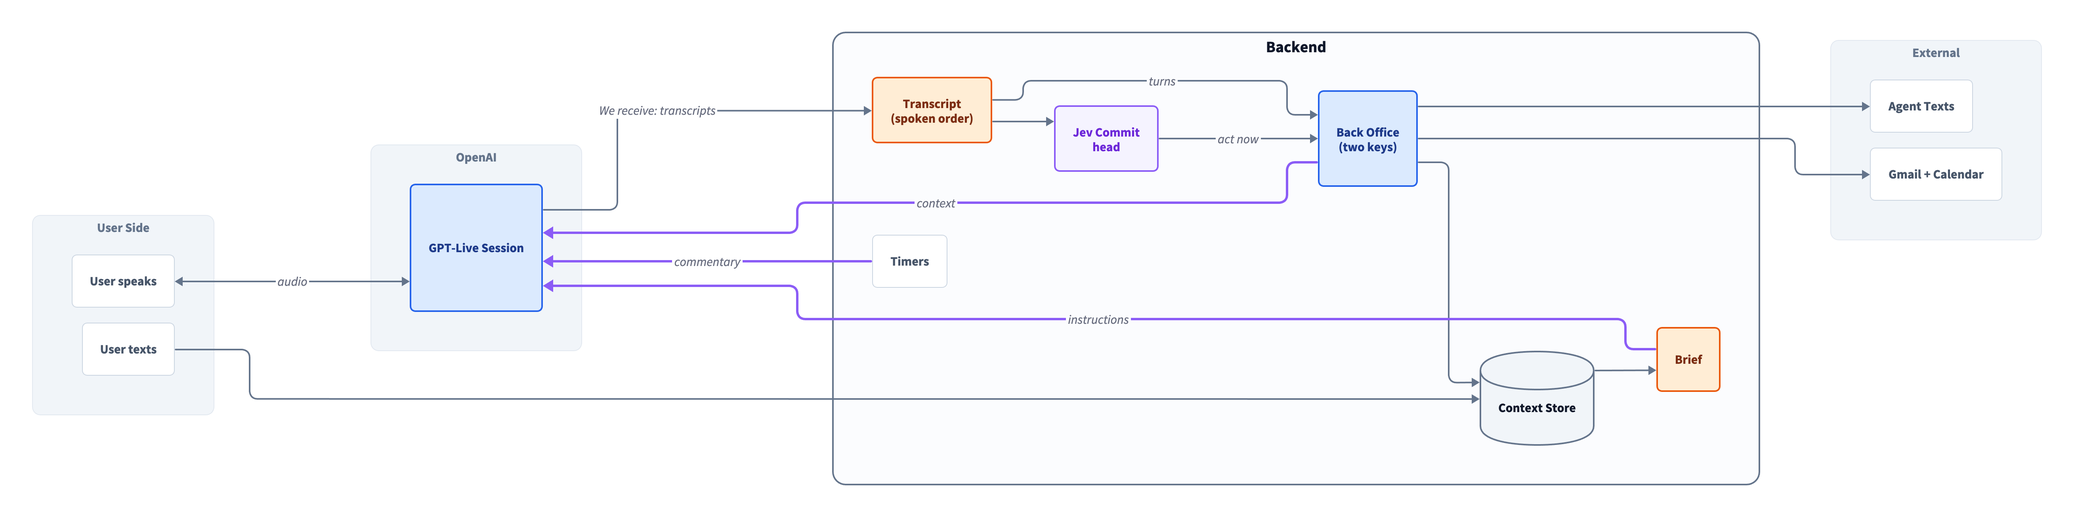
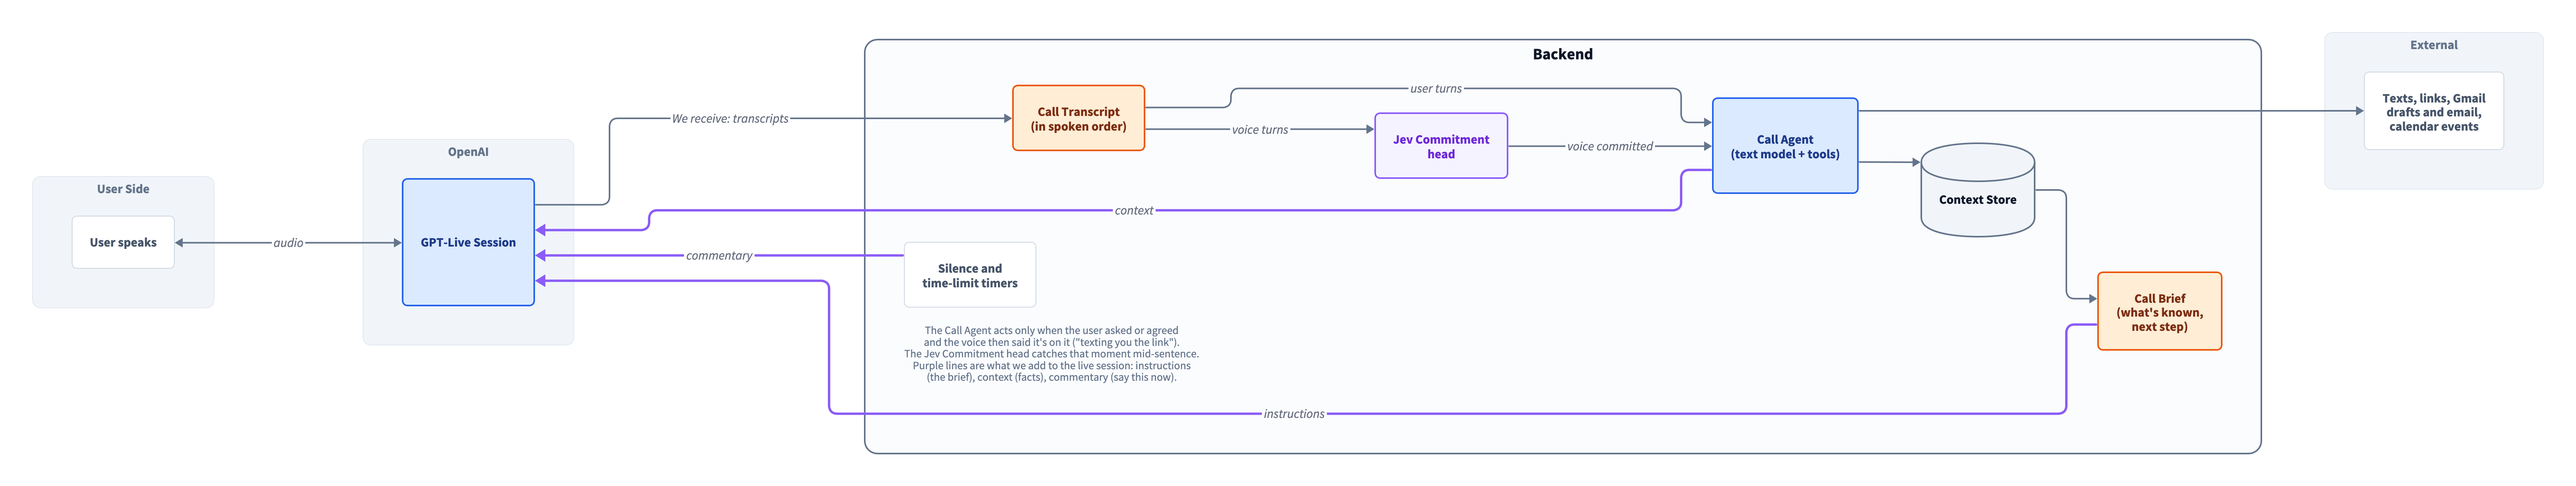
Call diagram names say what things are (Call Agent, Call Transcript, Jev Commitment head, Call Brief, timers), with one note for the two-key rule and the purple lines

diff --git a/docs/diagrams/README.md b/docs/diagrams/README.md
@@ -1,7 +1,7 @@
 # Diagrams
 
 - `routing`: every event becomes a Delta, is saved to the Context Store, and the Router sends it to the Text Handler or the Voice Handler, each behind a Jev filtration head. The handlers write texts, transcripts and actions back as passive store (dashed).
-- `call-architecture`: a call. The GPT-Live Session talks; the Back Office acts (two keys: their yes, then the voice's "on it", caught early by the Jev Commit head). The Brief, the Back Office and Timers reach the session as instructions, context and commentary.
+- `call-architecture`: a call. The GPT-Live Session talks; the Call Agent (our text model with tools) acts, only after the user asked or agreed and the voice said it is on it, a moment the Jev Commitment head catches mid-sentence. The Call Brief, the Call Agent and the timers reach the session as instructions, context and commentary.
 
 Render (from this folder): `d2 routing.d2 routing.svg`, `d2 call-architecture.d2 call-architecture.svg` (or `.png`).
 
